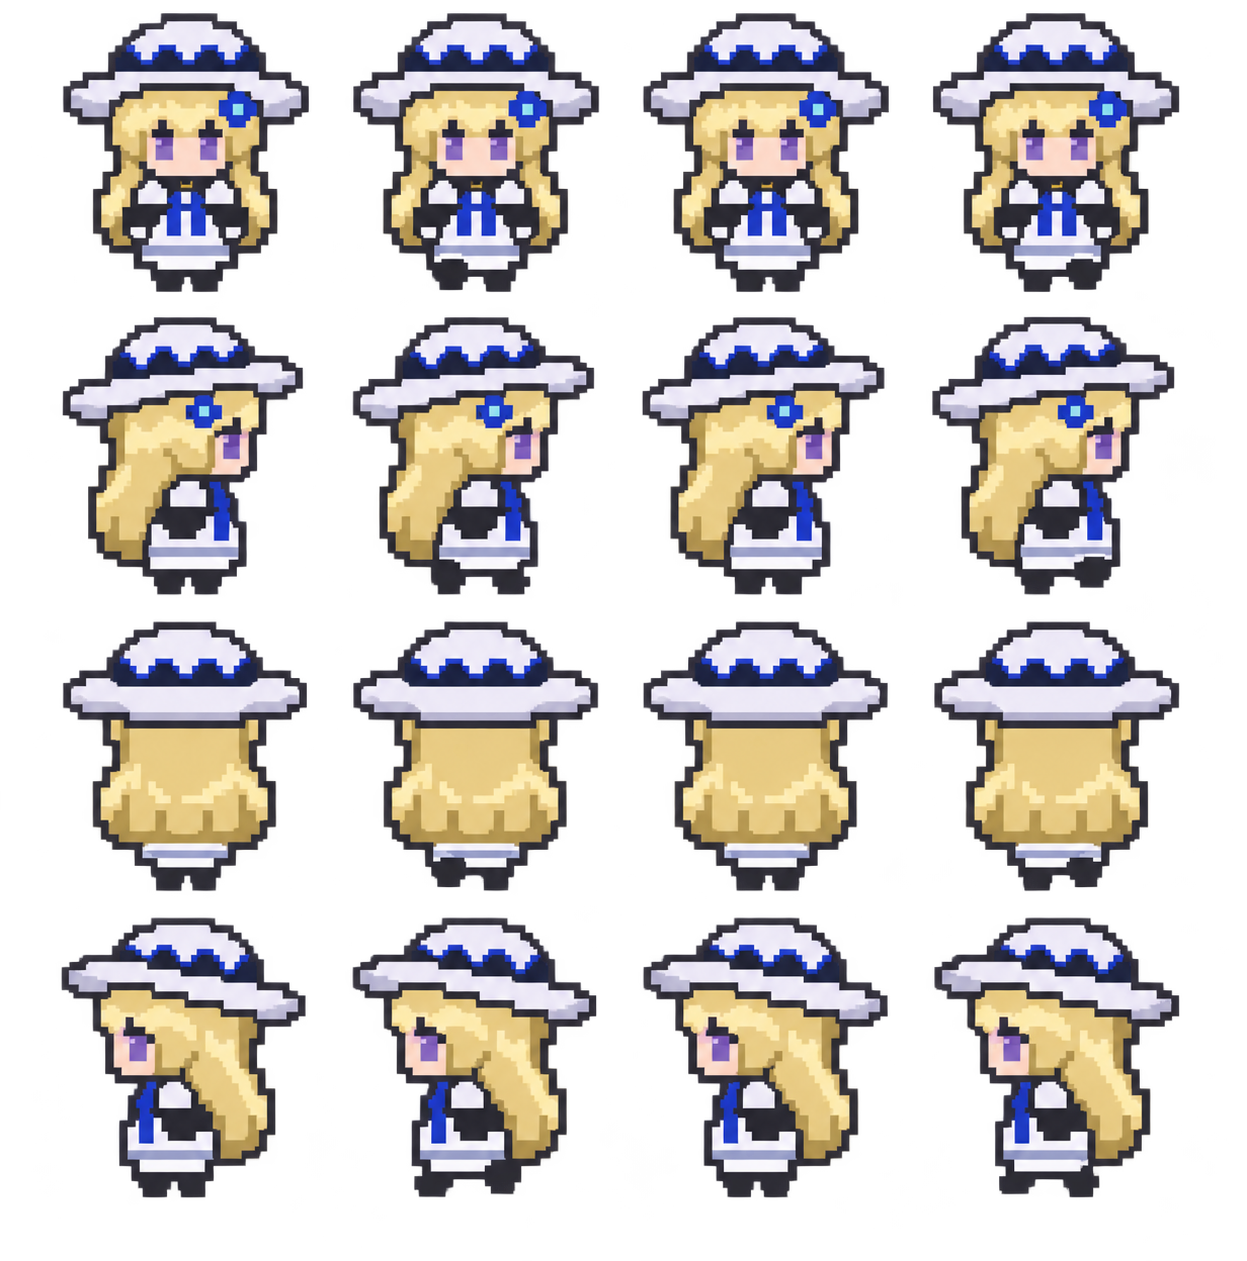
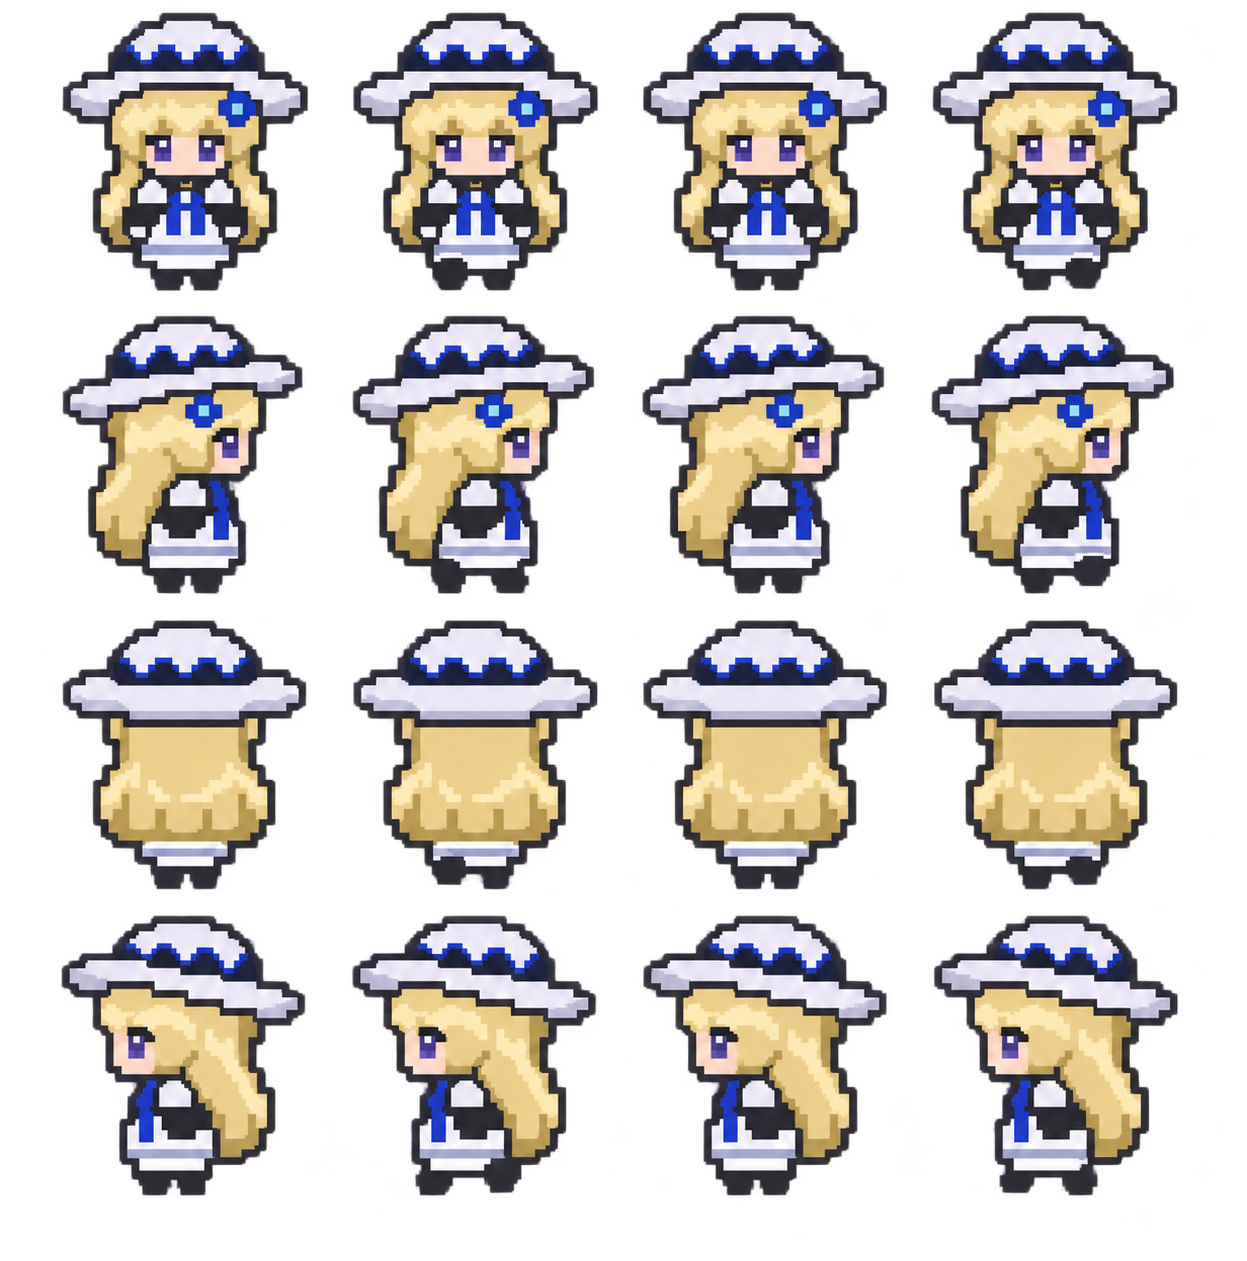
fix: clarify classic walking eyes and preserve violet pupils
AI-assisted-by: OpenAI Codex and OpenAI image generation

diff --git a/preview.html b/preview.html
@@ -16,7 +16,7 @@ function resizeDisplay(){const dpr=window.devicePixelRatio||1;canvas.width=Math.
 resizeDisplay();window.addEventListener('resize',resizeDisplay);
 function height(name,r,c){const extra=v.value==='classic'?4:0;return name==='crouch'&&c<2||name==='tools'&&c===2?23+extra:name==='misc'&&r===0?(c===3?12:22+extra):28+extra}
 async function load(){const ticket=++serial;last=0;frames=[];if(v.value==='off'){status.textContent='外观已关闭：游戏中恢复原版农夫（此预览不含原版素材）';return}status.textContent='加载中…';try{
-const palette=v.value==='classic'?[0x25262C,0x41404B,0x737383,0xE4CF87,0xAD9651,0xFFF2BC,0xF1F0F7,0xB8B7CC,0xD6DEEF,0x182650,0x3155D5,0x6097F2,0x8F70C6,0xBE91DC,0xFFE0CC,0xD8AA95,0xDDA3AE].map(c=>[c>>16,c>>8&255,c&255]):defaultPalette;const name=s.value,image=new Image();image.src=`PhoebeFarmer/assets/${v.value}/${name}.png`;const response=await fetch(`PhoebeFarmer/assets/${v.value}/frames.json`);if(!response.ok)throw Error('缺少帧位置文件');const bounds=(await response.json())[name];await image.decode();if(ticket!==serial)return;[cols,rows]=layouts[name];
+const palette=v.value==='classic'?[0x25262C,0x41404B,0x737383,0xE4CF87,0xAD9651,0xFFF2BC,0xF1F0F7,0xB8B7CC,0xD6DEEF,0x182650,0x3155D5,0x6097F2,0x4D356F,0x7650A0,0x8F70C6,0xBE91DC,0xFFE0CC,0xD8AA95,0xDDA3AE].map(c=>[c>>16,c>>8&255,c&255]):defaultPalette;const name=s.value,image=new Image();image.src=`PhoebeFarmer/assets/${v.value}/${name}.png`;const response=await fetch(`PhoebeFarmer/assets/${v.value}/frames.json`);if(!response.ok)throw Error('缺少帧位置文件');const bounds=(await response.json())[name];await image.decode();if(ticket!==serial)return;[cols,rows]=layouts[name];
 const off=document.createElement('canvas');off.width=image.width;off.height=image.height;const oc=off.getContext('2d',{willReadFrequently:true});oc.drawImage(image,0,0);const p=oc.getImageData(0,0,off.width,off.height).data;
 for(let r=0;r<rows;r++)for(let c=0;c<cols;c++){
 if(!bounds||bounds.length!==rows*cols)throw Error('帧位置数量不正确');const [l,t,w,h]=bounds[r*cols+c],rr=l+w-1,b=t+h-1,reference=name==='walk'?bounds.slice(r*cols,(r+1)*cols):[[l,t,w,h]],scale=Math.min(height(name,r,c)/Math.max(...reference.map(b=>b[3])),36/Math.max(...reference.map(b=>b[2]))),dw=Math.max(1,Math.round(w*scale)),dh=Math.max(1,Math.round(h*scale)),dx=Math.floor((40-dw)/2),dy=40-dh;

diff --git a/PhoebeFarmer/PixelSampler.cs b/PhoebeFarmer/PixelSampler.cs
@@ -14,7 +14,7 @@ internal static class PixelSampler
         0x9C742C, 0xCFA54D, 0xF0D37B, 0xE8E6EF
     };
 
-    private static readonly int[] ClassicPalette = { 0x25262C,0x41404B,0x737383,0xE4CF87,0xAD9651,0xFFF2BC,0xF1F0F7,0xB8B7CC,0xD6DEEF,0x182650,0x3155D5,0x6097F2,0x8F70C6,0xBE91DC,0xFFE0CC,0xD8AA95,0xDDA3AE };
+    private static readonly int[] ClassicPalette = { 0x25262C,0x41404B,0x737383,0xE4CF87,0xAD9651,0xFFF2BC,0xF1F0F7,0xB8B7CC,0xD6DEEF,0x182650,0x3155D5,0x6097F2,0x4D356F,0x7650A0,0x8F70C6,0xBE91DC,0xFFE0CC,0xD8AA95,0xDDA3AE };
 
     public static uint Sample(uint[] pixels, int stride, int x0, int y0, int x1, int y1, bool classic = false)
     {

diff --git a/tests/Program.cs b/tests/Program.cs
@@ -63,3 +63,8 @@ uint cobalt = 0xFFD55531;
 Check(PixelSampler.Sample(new[]{cobalt},1,0,0,1,1,true)==cobalt,"Official cobalt accents remain blue");
 uint pearlWhite = 0xFFF7F0F1;
 Check(PixelSampler.Sample(new[]{pearlWhite},1,0,0,1,1,true)==pearlWhite,"Official cool whites must not become beige");
+
+uint darkIris = 0xFF6F354D;
+Check(PixelSampler.Sample(new[]{darkIris},1,0,0,1,1,true)==darkIris,"Dark violet pupils must not map to navy blue");
+uint iris = 0xFFA05076;
+Check(PixelSampler.Sample(new[]{iris},1,0,0,1,1,true)==iris,"Violet iris shading is preserved");

diff --git a/art/classic-eyes-0.1.6.md b/art/classic-eyes-0.1.6.md
@@ -1,0 +1,7 @@
+# Classic walking eyes, 0.1.6
+
+Built-in OpenAI image generation edited `PhoebeFarmer/assets/classic/walk.png`. The standing/walking front and side eyes now use compact violet clusters, dark upper lashes and light highlights. Other action artwork was not redrawn. Runtime and browser palettes add two dark violet shades so the iris does not collapse to navy blue.
+
+Prompt:
+
+Edit this exact 4x4 sprite sheet. Change ONLY eyes of the character in front and side views; preserve canvas, all 16 positions, head/body proportions, every pose, official color palette, hat hair clothing and transparent background. It will be reduced to only 32 pixels tall: eyes must be deliberate readable low-resolution pixel clusters, not large blank lavender rectangles. Front face: two separated compact eyes, each approximately 2 logical pixels wide and 3 high (at final 32px character height), charcoal upper lash, dark violet pupil, saturated violet lower iris, one crisp off-white highlight large enough to survive downsampling. Leave 2-3 logical skin pixels between eyes, keep skin below eyes and avoid the bangs covering upper lashes. Gentle lively Phoebe expression, not startled, no giant eyes, no glasses, no eyebrows merged into hair, no purple cheek blocks. Side eyes equally compact, with one dark lash and visible iris/highlight. Keep each direction's eye placement exactly consistent across its 4 walk frames. Hard pixel edges, flat clusters, no antialias blur or gradients. Back row unchanged. This is surgical eye correction not a redesign.

diff --git a/README.md b/README.md
@@ -3,13 +3,13 @@
 将《星露谷物语》的玩家外观替换为菲比，并在 **03 ARE 款**与 **06 经典款**之间切换。
 基于 [Darian 的 Whale Farmer](https://github.com/Darianliu23/stardew-deepseek-whale-maid-player-sprite) 改造。
 
-**0.1.5 是待实机验收的预发布版本。** 使用公开参考程序集编译；开发机器没有安装游戏。
+**0.1.6 是待实机验收的预发布版本。** 使用公开参考程序集编译；开发机器没有安装游戏。
 编译通过不代表已验证实际游戏中的动画、工具对位或模组兼容性。
 
 ## 安装
 
 1. 准备 PC 版 Stardew Valley **1.6.15** 和 **SMAPI 4.4.0 或更新版本**。
-2. 从本仓库 Releases 下载 `PhoebeFarmer-0.1.5.zip`。
+2. 从本仓库 Releases 下载 `PhoebeFarmer-0.1.6.zip`。
 3. 将 ZIP 内的 `PhoebeFarmer` 文件夹解压到游戏的 `Mods` 目录。
    路径应为 `Mods/PhoebeFarmer/manifest.json`，不要再多套一层文件夹。
 4. 通过 SMAPI 启动游戏，进入存档后使用快捷键。
@@ -77,7 +77,7 @@
 ./build.ps1
 ```
 
-脚本获取公开的编译专用参考程序集，运行无图形环境的几何/切换检查，编译并输出 `dist/PhoebeFarmer-0.1.5.zip`。
+脚本获取公开的编译专用参考程序集，运行无图形环境的几何/切换检查，编译并输出 `dist/PhoebeFarmer-0.1.6.zip`。
 参考程序集仅用于编译，不可用于运行游戏，也不会打入安装包。
 已有游戏和 SMAPI 时可指定：
 
